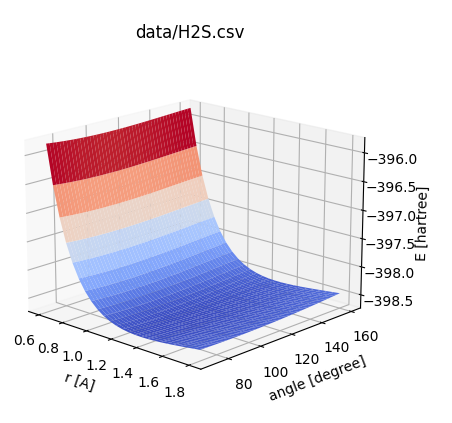
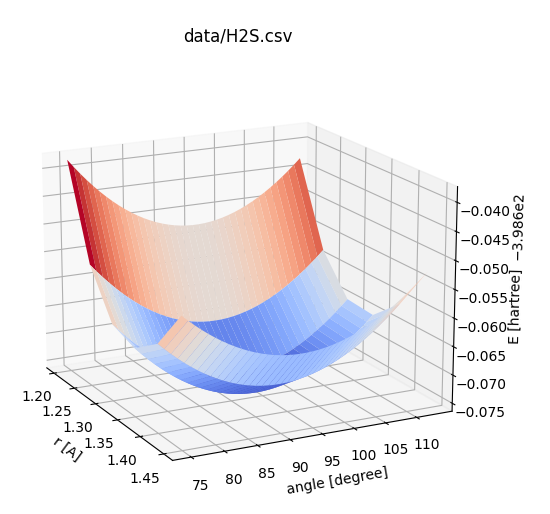
Changed example code

Changed region(s): [[0.031, 0.2459, 0.9602, 0.9835], [0.2788, 0.0307, 0.5575, 0.0922]]

diff --git a/excercise2_gaussian/README.md b/excercise2_gaussian/README.md
@@ -52,7 +52,7 @@ python calculate_frequencies.py H2O.csv --graph --zlim=0.1
 
 Example output:
 ```
-C:\excercise2_gaussian>python calculate_frequencies.py data/H2S.csv --graph
+C:\excercise2_gaussian>python calculate_frequencies.py data/H2S.csv --graph --zlim=2-classical-limits 
 Datapoint with minimum energy:
 Energy [hartree]    r [Angstroem]       angle [degrees]     
 -398.6756280320     1.350               94.0
